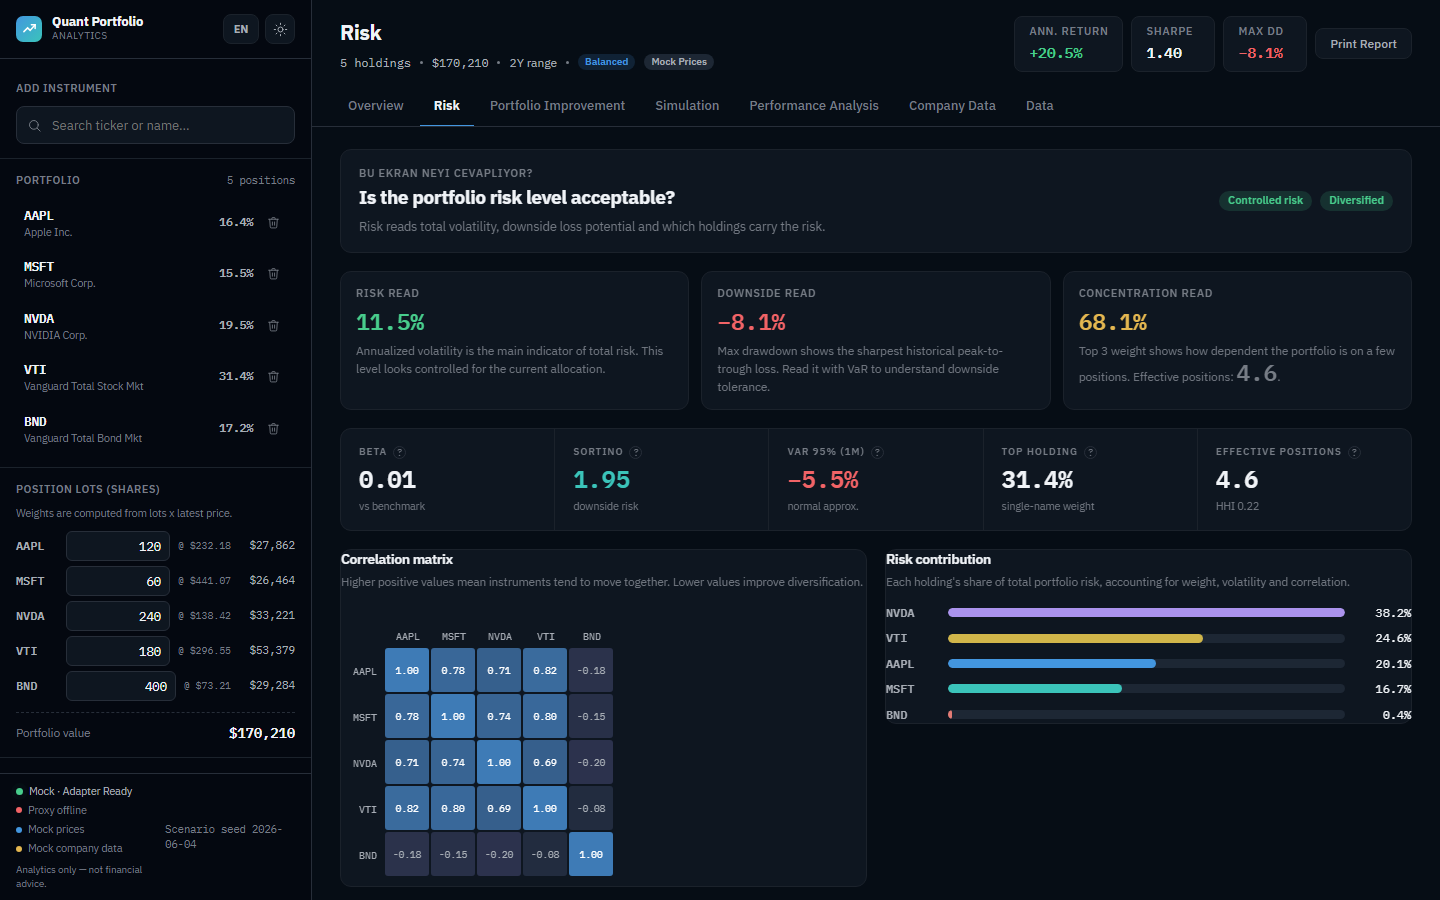
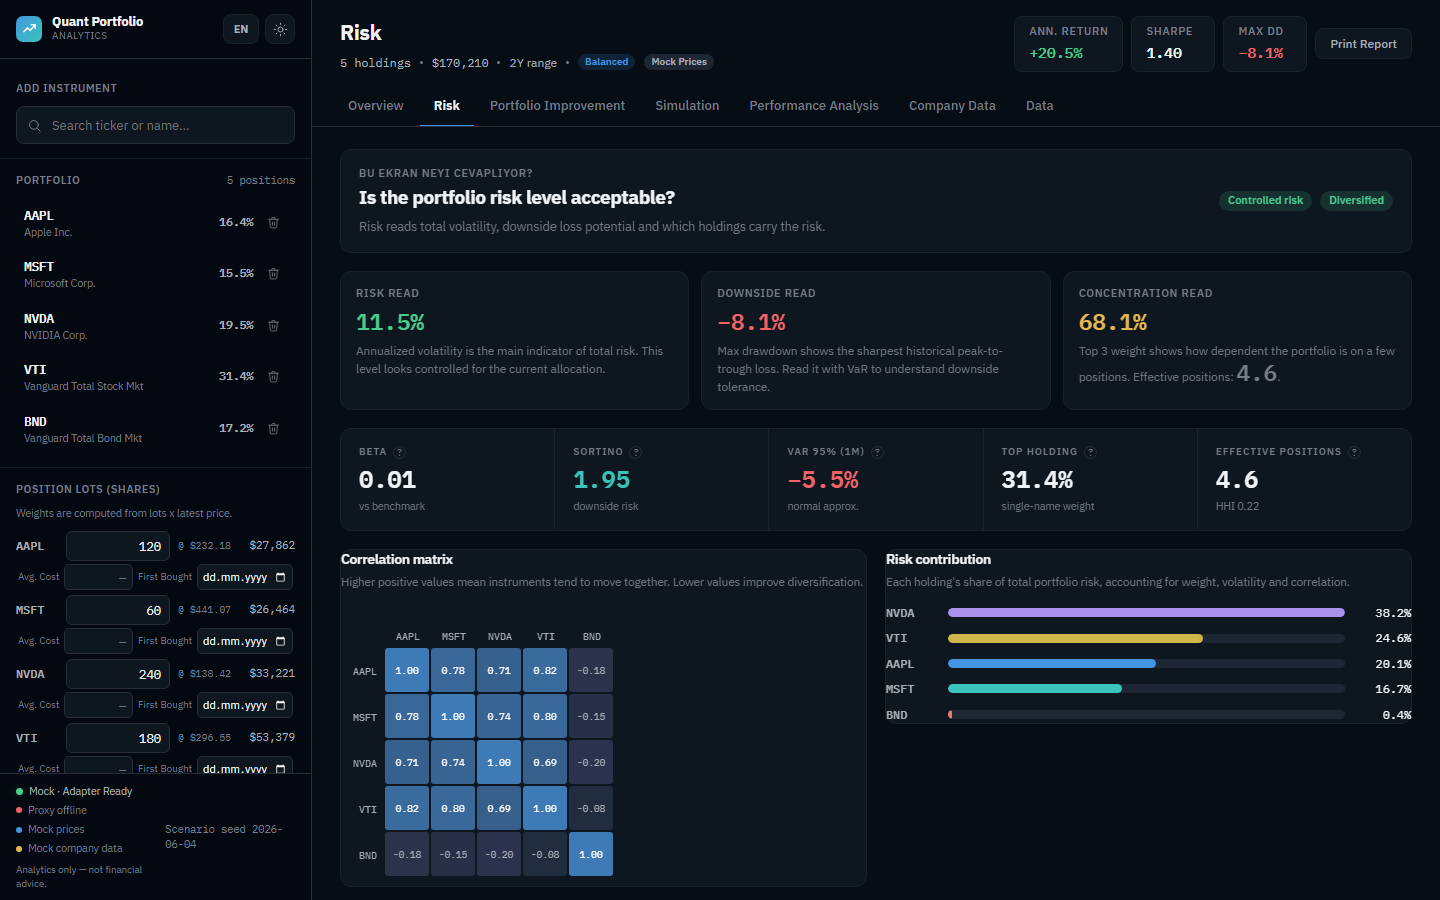
docs: Phase 11a documentation accuracy pass

Changed region(s): [[0.0, 0.6222, 0.2188, 0.8711]]

diff --git a/tests/e2e/dashboard.spec.js b/tests/e2e/dashboard.spec.js
@@ -1,6 +1,6 @@
 /**
  * dashboard.spec.js — browser-level smoke tests for the Quant Portfolio Analytics
- * Dashboard (Phase 6a).
+ * Dashboard (Phase 6 onward).
  *
  * Scope:
  *   - App loads and all 7 tabs are navigable.
@@ -13,15 +13,11 @@
  *   - No assertions on exact numeric values, chart SVG paths, or pixel positions.
  *   - No dependency on a live Finnhub API key.
  *   - Tests pass in mock/offline mode (proxy not required).
- *
- * Timing note:
- *   Babel Standalone transpiles all 7 JSX files via XHR before React mounts.
- *   The APP_TIMEOUT constant allows for this cold-start latency.
  */
 
 import { test, expect } from "@playwright/test";
 
-// How long to wait for the React app to fully mount after Babel transpilation.
+// Generous timeout to accommodate Vite dev-server cold start and React mount latency.
 const APP_TIMEOUT = 30_000;
 
 // Pre-load localStorage before each test page navigation so the app starts in
@@ -49,7 +45,7 @@ test("app loads without uncaught JavaScript errors", async ({ page }) => {
   await page.goto("/");
   await page.waitForSelector(".app", { timeout: APP_TIMEOUT });
 
-  // Brief settle: Babel may enqueue micro-task warnings after initial render.
+  // Brief settle: allow any deferred React micro-tasks to complete before checking errors.
   await page.waitForTimeout(500);
 
   if (errors.length > 0) {

diff --git a/playwright.config.js b/playwright.config.js
@@ -6,11 +6,11 @@ const DEV_URL = "http://127.0.0.1:8502";
 export default defineConfig({
   testDir: "./tests/e2e",
 
-  // Each test gets up to 60 s: Babel Standalone transpiles 7 JSX files via XHR
-  // on first load, which can add several seconds beyond Vite's own startup.
+  // Each test gets up to 60 s. Generous timeout for Vite dev-server cold-start
+  // and React mount latency, particularly in CI where the server starts fresh.
   timeout: 60_000,
 
-  // Assertion timeout — generous to account for React + Babel mount latency.
+  // Assertion timeout — generous to account for Vite dev-server and React mount latency.
   expect: { timeout: 15_000 },
 
   // Run tests sequentially to avoid port contention and reduce noise.

diff --git a/README.md b/README.md
@@ -58,6 +58,10 @@ The app covers the full decision-flow of a multi-asset portfolio review: value a
 | **Custom Date Range** | User-controlled analysis window with two date pickers and client-side validation |
 | **Extended Tickers** | Add valid tickers beyond the canonical 15-instrument universe; synthetic GBM fallback until real data loads |
 | **Portfolio Notes** | 500-character plain-text annotation saved with each named portfolio |
+| **Cost Basis & Unrealized P&L** | Per-holding average cost and first-bought date; unrealized P&L and unrealized return per asset; portfolio-level cost basis and unrealized P&L summary strip |
+| **JSON Backup / Restore** | Full-state JSON export covering holdings, assumptions, notes, saved portfolios, and snapshots; one-click restore on any device |
+| **Portfolio Snapshots** | Daily portfolio value recorded in live-data sessions; WoW / MoM / YTD / inception-to-date delta KPI strip in the Overview tab |
+| **Active State Persistence** | Explicit Save Current State action persists working holdings, assumptions, and notes across browser sessions |
 
 ---
 
@@ -73,8 +77,8 @@ The app covers the full decision-flow of a multi-asset portfolio review: value a
 | **Market Data** | Finnhub REST API (quotes, candles, profile, news) |
 | **History Fallback** | Yahoo Finance chart API (`/v8/finance/chart`) |
 | **Mock Data** | Deterministic GBM price model with seeded Mulberry32 RNG |
-| **Testing** | 20 Node.js script test suites + Playwright Chromium E2E |
-| **Build** | Vite production build — 286 kB JS / 88 kB gzip |
+| **Testing** | 24 Node.js test suites + Playwright Chromium E2E |
+| **Build** | Vite production build — 304 kB JS / 92 kB gzip |
 | **Security** | Finnhub API key stays server-side; never bundled by Vite or sent to the browser |
 
 ---
@@ -186,7 +190,7 @@ Get a free key at [finnhub.io](https://finnhub.io).
 ```bash
 # Build and build output validation (run together)
 npm run build             # Vite production bundle → dist/
-npm run test:build        # validate dist/ structure, forbidden refs, bundle size ceilings
+npm run test:build        # validate dist/ structure, forbidden refs, bundle size ceilings (17 checks)
 
 # Node.js source-analysis and integration tests
 npm run test:smoke        # index.html entry point, adapter exports, tab order
@@ -208,6 +212,10 @@ npm run test:export       # Print Report button and @media print behavior
 npm run test:daterange    # custom date range picker validation helpers
 npm run test:universe     # extended ticker support (isValidTicker, DEFAULT_GBM, buildPortfolio)
 npm run test:notes        # portfolio notes (save/load/reset, backward compat, 500-char cap)
+npm run test:costbasis    # cost basis inputs (avgCost, firstBought), unrealized P&L, portfolio aggregates
+npm run test:backup       # JSON backup/restore round-trip, version guard, snapshot integration
+npm run test:snapshots    # portfolio daily snapshots (record, prune, calcDeltas, backup integration)
+npm run test:activestate  # active state persistence (save/load/clear, schema validation, round-trip)
 
 # Playwright E2E (Chromium)
 npm run test:e2e          # 19 browser tests — load, tabs, holdings, theme, language, empty state
@@ -216,10 +224,10 @@ npm run test:e2e:headed   # same tests with visible browser window
 
 | Metric | Result |
 |---|---|
-| Build validation checks | 15 / 15 pass |
-| Node.js test suites | 20 / 20 pass |
+| Build validation checks | 17 / 17 pass |
+| Node.js test suites | 24 / 24 pass |
 | Playwright E2E | 19 / 19 pass |
-| Production build | 286 kB JS · 88 kB gzip · 31 modules · 0 warnings |
+| Production build | 304 kB JS · 92 kB gzip · 34 modules · 0 warnings |
 
 ---
 
@@ -235,6 +243,12 @@ portfolio-analytics-dashboard/
 │   ├── ui.jsx                    shared React components
 │   ├── charts.jsx                custom SVG chart primitives
 │   ├── sidebar.jsx               control panel, holdings input, search
+│   ├── holdingsCsv.js            CSV import/export logic
+│   ├── dateUtils.js              date range validation helpers
+│   ├── portfolioStorage.js       named saved portfolios (localStorage)
+│   ├── portfolioBackup.js        JSON full-state backup/restore
+│   ├── portfolioSnapshots.js     daily portfolio value snapshots
+│   ├── activePortfolioState.js   active working state persistence
 │   └── views/
 │       ├── overview.jsx          Overview tab, Risk tab
 │       └── analysis.jsx          Optimization, Simulation, Analysis,
@@ -257,7 +271,19 @@ portfolio-analytics-dashboard/
 │   ├── sidebar-check.mjs
 │   ├── overview-check.mjs
 │   ├── analysis-check.mjs
-│   └── app-check.mjs
+│   ├── app-check.mjs
+│   ├── build-check.mjs
+│   ├── portfolio-storage-check.mjs
+│   ├── csv-check.mjs
+│   ├── export-check.mjs
+│   ├── date-range-check.mjs
+│   ├── universe-check.mjs
+│   ├── notes-check.mjs
+│   ├── cost-basis-check.mjs
+│   ├── backup-check.mjs
+│   ├── snapshot-check.mjs
+│   ├── active-state-check.mjs
+│   └── capture-screenshots.mjs
 │
 ├── tests/e2e/
 │   └── dashboard.spec.js         Playwright Chromium E2E tests (19 tests)

diff --git a/docs/FINANCIAL_METRICS.md b/docs/FINANCIAL_METRICS.md
@@ -1,10 +1,10 @@
 # Financial Metrics Reference
 
 **Project:** Quant Portfolio Analytics Dashboard  
-**Date:** 2026-06-06  
-**Phase:** 4b — Data-Derived Beta and Empirical CVaR
+**Date:** 2026-06-10  
+**Status:** Current through Phase 10b — data-derived beta and empirical CVaR are live; true Sortino (downside deviation) is still an open target (see Phase 4c+ section below)
 
-This document is a reference for every quantitative metric computed in `data.jsx`.  
+This document is a reference for every quantitative metric computed in `src/data.js`.  
 It records the current formula, whether the output is data-derived or approximated,  
 which user assumptions feed into it, known limitations, and what test coverage exists.
 
@@ -257,11 +257,11 @@ Phase 4b (tests 12–15):
 
 ---
 
-## Phase 4c+ Targets
+## Open Improvement Targets
 
-| Item | Current | Target |
-|---|---|---|
-| Sortino denominator | `annVol × 0.72` proxy | True downside deviation: `sqrt(mean(min(r-T,0)²))` |
-| Annualized vol | Second moment `E[r²]` | Mean-centered `E[(r-mean)²]` (bias negligible) |
-| Rolling return | Arithmetic annualization | CAGR: `(1 + geometric_63d)^(252/63) - 1` |
-| Optimizer | Heuristic tilt | True MVO via quadratic programming |
+| Item | Current | Target | Status |
+|---|---|---|---|
+| Sortino denominator | `annVol × 0.72` proxy | True downside deviation: `sqrt(mean(min(r-T,0)²))` | **Open** |
+| Annualized vol | Second moment `E[r²]` | Mean-centered `E[(r-mean)²]` (bias negligible for typical equity daily returns) | Low priority |
+| Rolling return | Arithmetic annualization | CAGR: `(1 + geometric_63d)^(252/63) - 1` | Low priority |
+| Optimizer | Heuristic weight-tilt | True MVO via quadratic programming | Long-term |